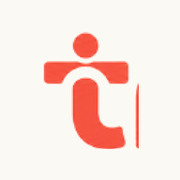
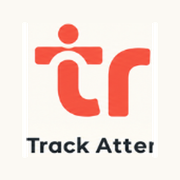
update : generated asset

Changed region(s): [[0.1389, 0.1111, 0.8611, 0.8611]]

diff --git a/src/components/sidebar/index.jsx b/src/components/sidebar/index.jsx
@@ -28,11 +28,11 @@ export function AppSidebar(props) {
       <SidebarHeader className="p-2 pb-1.5 group-data-[collapsible=icon]:p-2 group-data-[collapsible=icon]:items-center">
         <Link href="/" className="block w-full focus:outline-none focus-visible:ring-2 focus-visible:ring-primary rounded-xl">
           <Image
-            src="/assets/logo/logo-2.png"
+            src="/assets/logo/logo-card.png"
             alt="trueHr"
-            width={1000}
-            height={400}
-            className="w-full h-auto rounded-xl object-contain shadow-xs group-data-[collapsible=icon]:hidden hover:opacity-95 transition-opacity"
+            width={448}
+            height={159}
+            className="w-full h-auto rounded-xl object-contain shadow-2xs border border-border/40 group-data-[collapsible=icon]:hidden hover:opacity-95 transition-opacity"
             priority
           />
           <div className="hidden group-data-[collapsible=icon]:flex items-center justify-center p-0.5">

diff --git a/src/app/privacy-policy/page.jsx b/src/app/privacy-policy/page.jsx
@@ -334,7 +334,7 @@ export default function PrivacyPolicyPage() {
                   <p className="font-bold text-foreground">trueHr Data Protection & Privacy Team</p>
                   <p className="text-muted-foreground">Email: <a href="mailto:privacy@truehr.app" className="text-[#f65340] hover:underline font-medium">privacy@truehr.app</a></p>
                   <p className="text-muted-foreground">Support: <a href="mailto:support@truehr.app" className="text-[#f65340] hover:underline font-medium">support@truehr.app</a></p>
-                  <p className="text-muted-foreground">Website: <a href="https://hr-ten-lime.vercel.app" className="text-[#f65340] hover:underline font-medium">https://hr-ten-lime.vercel.app</a></p>
+                  <p className="text-muted-foreground">Website: <a href="https://truehr.magicscale.in" className="text-[#f65340] hover:underline font-medium">https://truehr.magicscale.in</a></p>
                 </div>
               </section>
 

diff --git a/src/components/global/offline-banner/index.jsx b/src/components/global/offline-banner/index.jsx
@@ -59,7 +59,7 @@ export default function OfflineBanner() {
           className="fixed top-0 left-0 right-0 z-[9999] flex items-center justify-center gap-2 px-4 py-2.5 bg-emerald-600 text-white text-xs sm:text-sm font-medium shadow-lg"
         >
           <Wifi className="w-4 h-4 flex-shrink-0" />
-          <span>Back online! Reconnected to GetRepeat.</span>
+          <span>Back online! Reconnected to trueHr.</span>
         </motion.div>
       )}
     </AnimatePresence>

diff --git a/capacitor.config.ts b/capacitor.config.ts
@@ -5,10 +5,12 @@ const config: CapacitorConfig = {
   appName: 'trueHr',
   webDir: 'public',
   server: {
-    url: 'https://hr-ten-lime.vercel.app',
+    url: 'https://truehr.magicscale.in',
     errorPath: 'offline.html',
     cleartext: true,
     allowNavigation: [
+      'truehr.magicscale.in',
+      '*.magicscale.in',
       '*.vercel.app',
       '*.truehr.app',
       '*.clerk.accounts.dev',

diff --git a/public/offline.html b/public/offline.html
@@ -310,7 +310,7 @@
   </div>
 
   <script>
-    const APP_URL = "https://hr-ten-lime.vercel.app";
+    const APP_URL = "https://truehr.magicscale.in";
     const retryBtn = document.getElementById("retryBtn");
     const btnText = document.getElementById("btnText");
     const statusBadge = document.getElementById("statusBadge");
